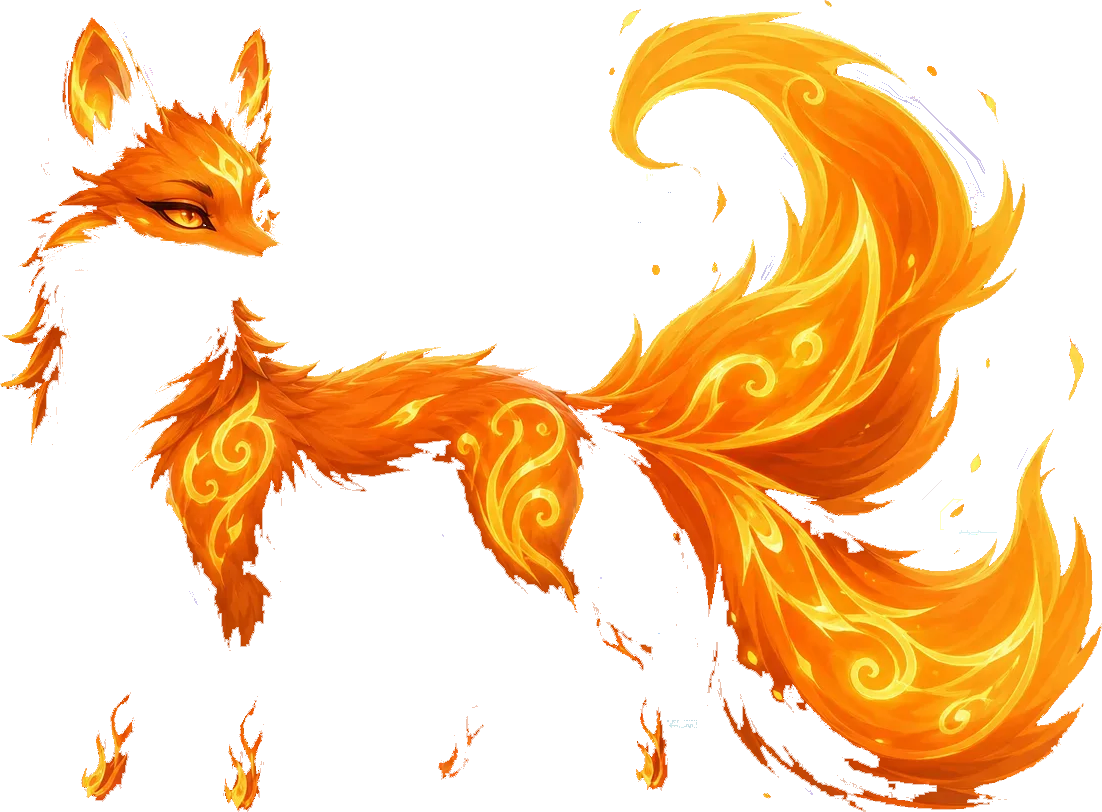
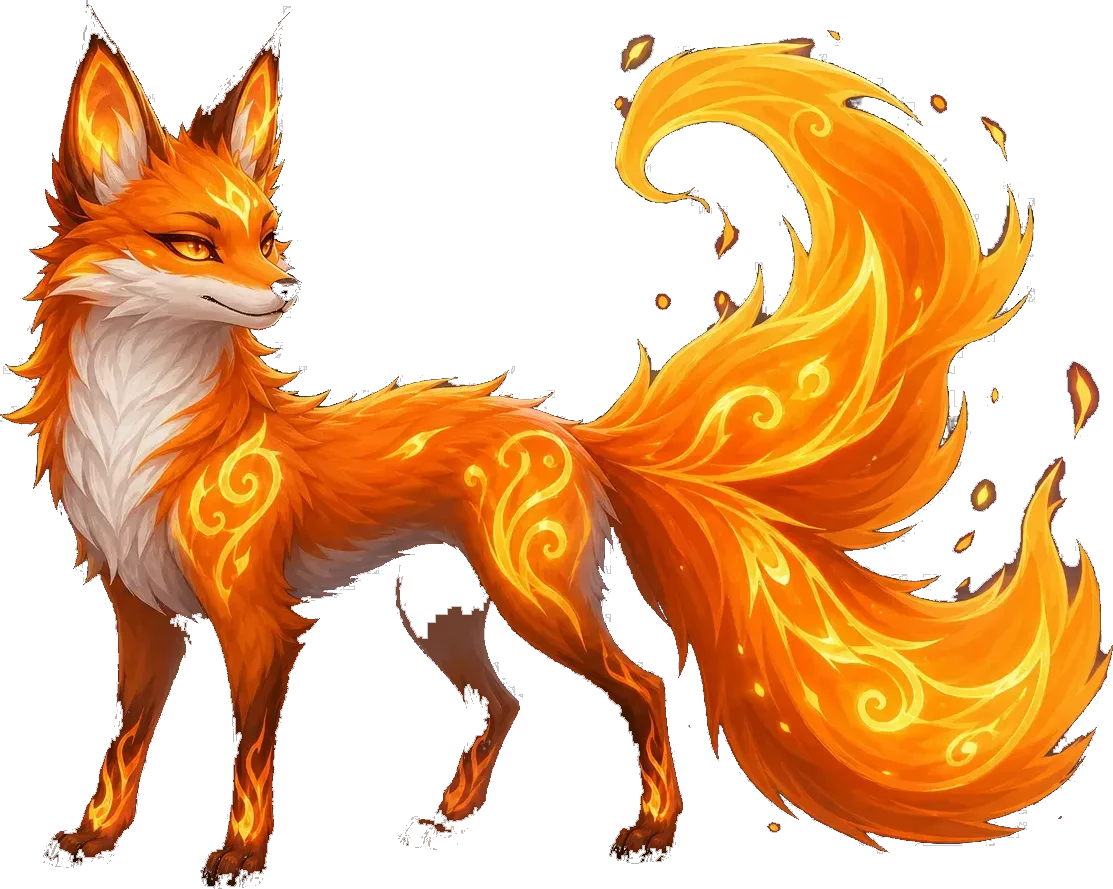
Restore full fox spirit art from pre-matte source.
Reverts fox-spirit.webp to the intact 47% opaque asset, skips automated matting for that file, bumps art cache to v12, and adds a warm glow filter so the flame body reads solid on the dark stage.

diff --git a/src/app/globals.css b/src/app/globals.css
@@ -175,6 +175,14 @@ body {
   z-index: 1;
 }
 
+/* Fox — boost visibility of flame body on dark stage */
+.companion-orbit-animal-img--fox,
+.companion-figure-raster--solo.companion-orbit-animal-img--fox {
+  filter: brightness(1.08) saturate(1.18) contrast(1.06)
+    drop-shadow(0 10px 22px rgba(0, 0, 0, 0.45))
+    drop-shadow(0 0 24px rgba(255, 120, 40, 0.55));
+}
+
 /* Storm wolf — shift built-in blue lightning to purple */
 .companion-orbit-animal-img--wolf,
 .companion-figure-raster--solo.companion-orbit-animal-img--wolf {

diff --git a/src/lib/character-art.ts b/src/lib/character-art.ts
@@ -124,7 +124,7 @@ export function characterImagePath(
   return getCharacterAsset(kind, slug)?.imagePath ?? null;
 }
 
-const CHARACTER_ART_VERSION = "11";
+const CHARACTER_ART_VERSION = "12";
 
 function withArtVersion(path: string | null): string | null {
   return path ? `${path}?v=${CHARACTER_ART_VERSION}` : null;